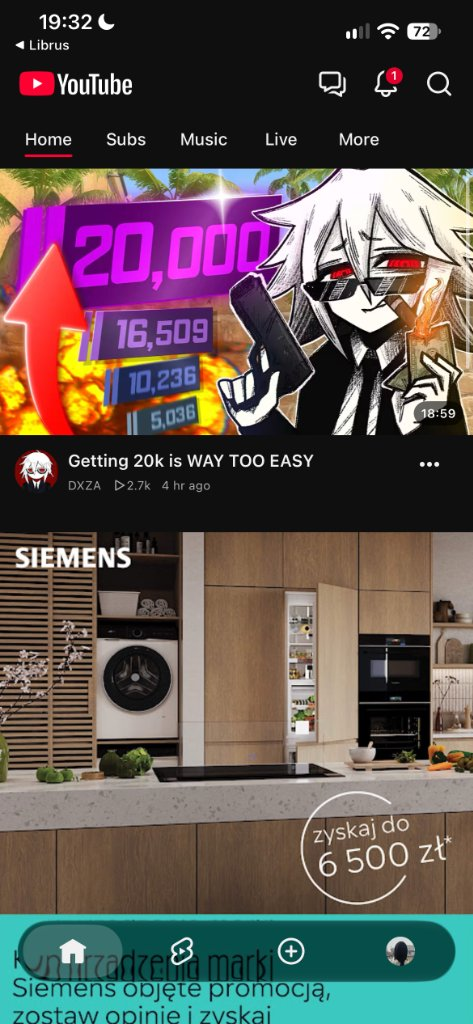
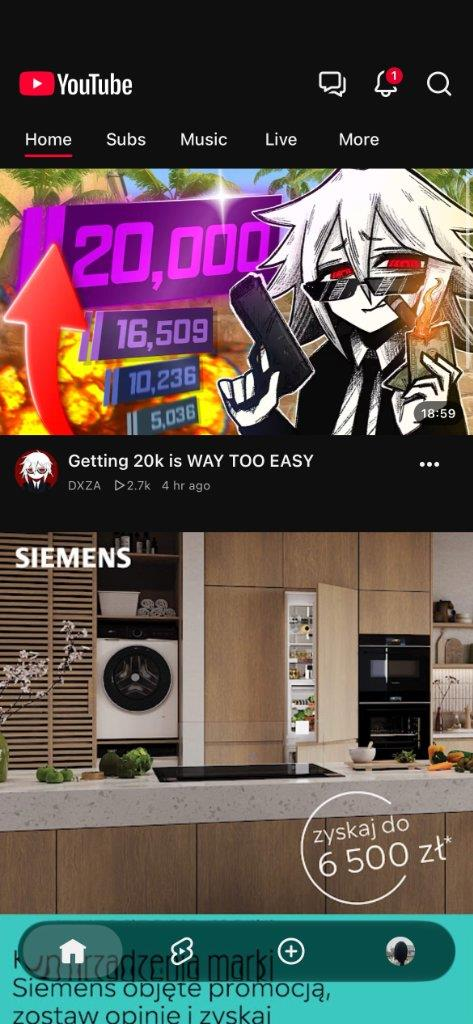
Remove top translucent status bar blur/fade and clean top of YouTube image

diff --git a/index.html b/index.html
@@ -4,7 +4,7 @@
   <meta charset="UTF-8" />
   <meta name="viewport" content="width=device-width, initial-scale=1.0, maximum-scale=1.0, user-scalable=no, viewport-fit=cover" />
   <meta name="apple-mobile-web-app-capable" content="yes" />
-  <meta name="apple-mobile-web-app-status-bar-style" content="black-translucent" />
+  <meta name="apple-mobile-web-app-status-bar-style" content="black" />
   <meta name="apple-mobile-web-app-title" content="YouTube" />
   <meta name="mobile-web-app-capable" content="yes" />
   <meta name="theme-color" content="#0f0f0f" />
